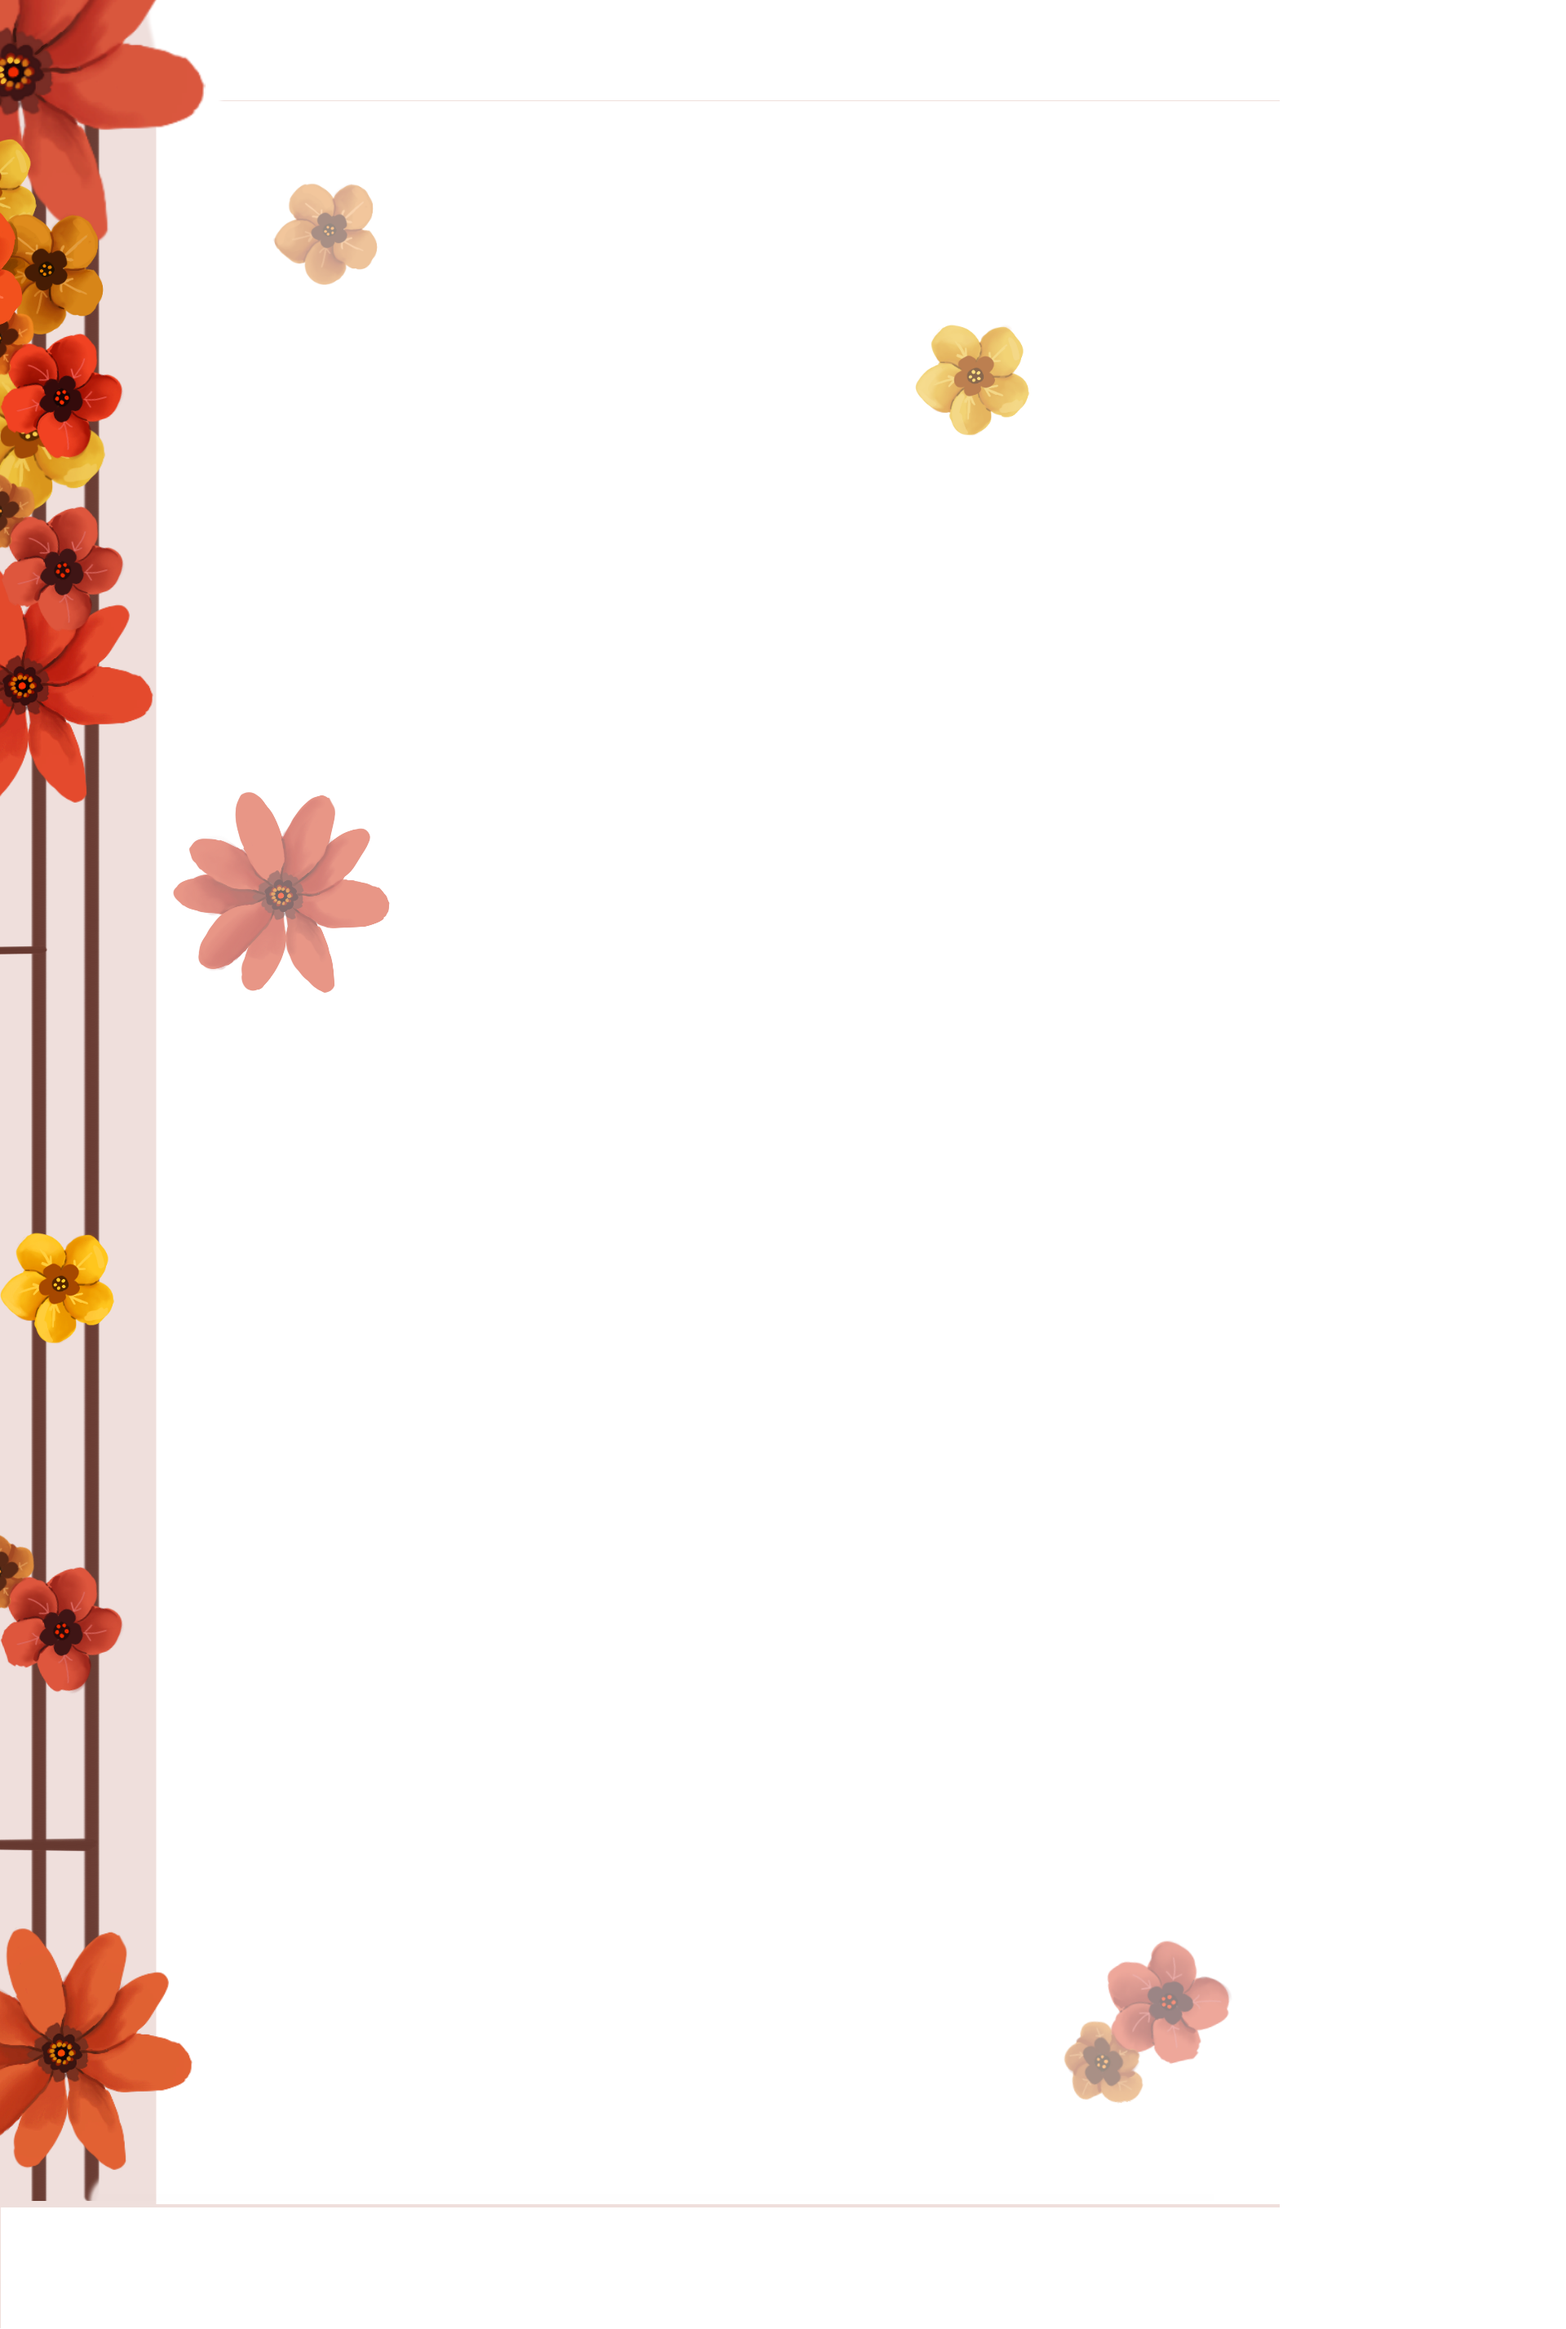
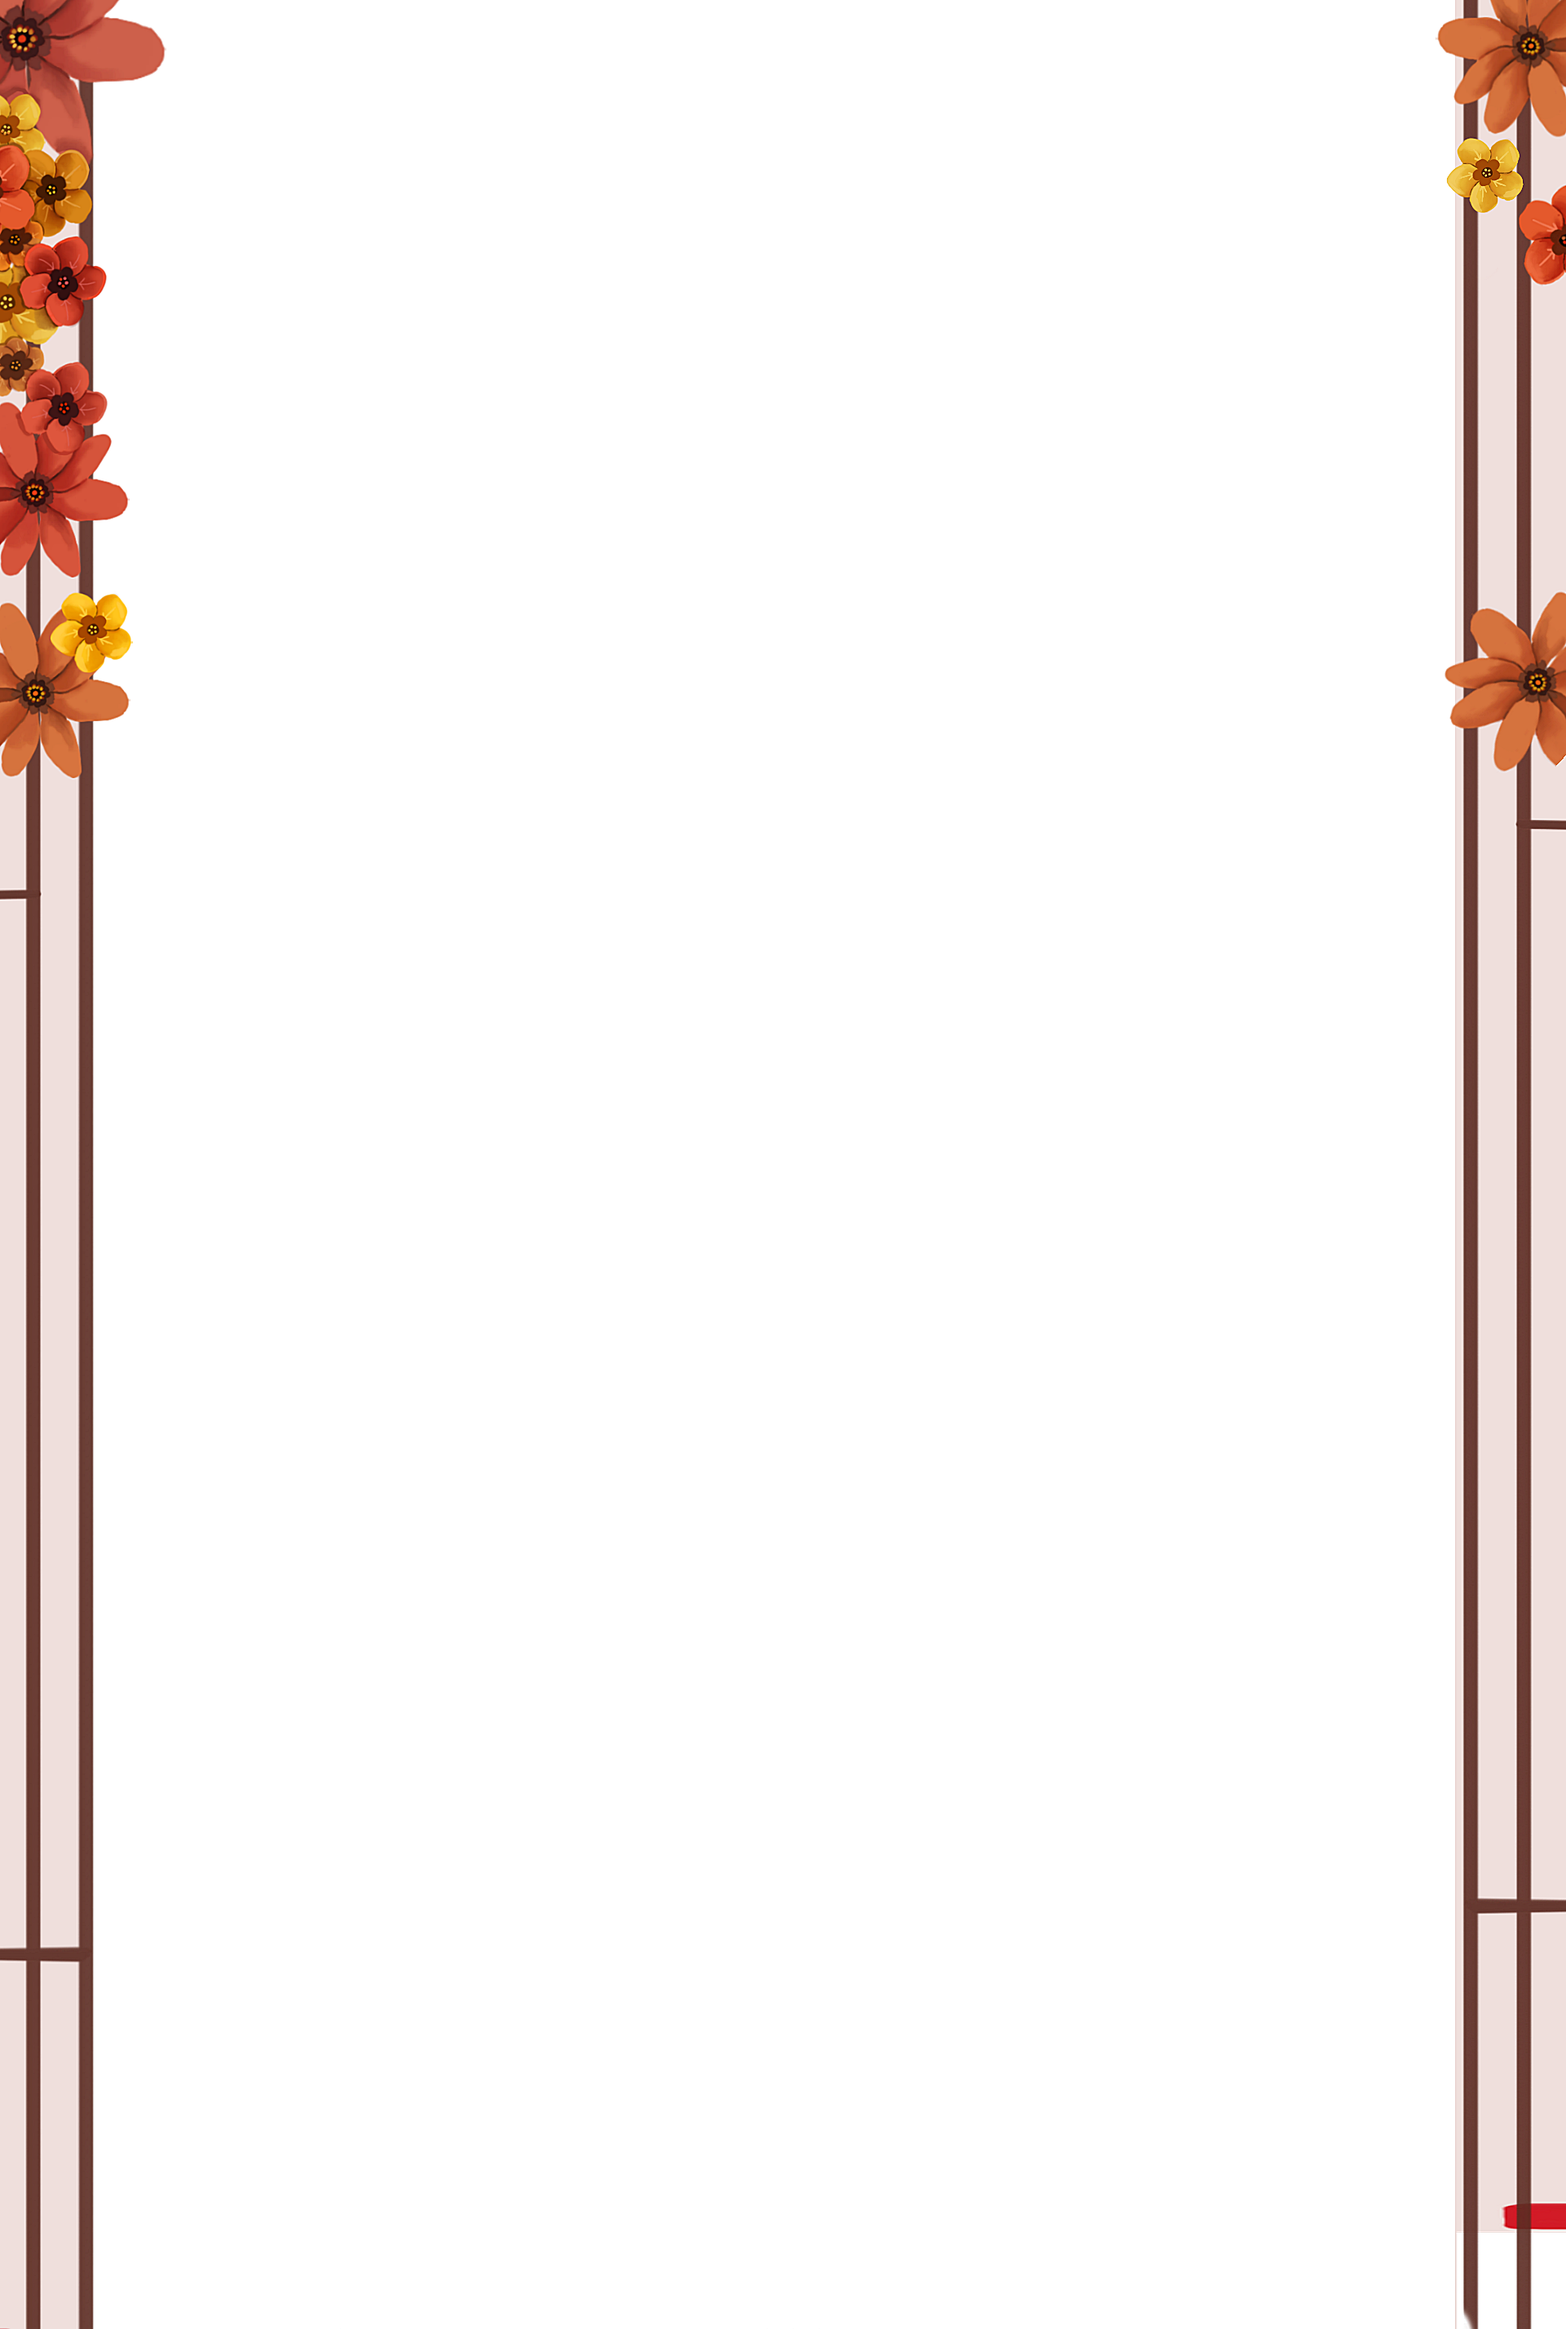
Background Changed

diff --git a/assets/css/style.css b/assets/css/style.css
@@ -14,10 +14,12 @@
 }
 body{
   font-family: 'Roboto', sans-serif;
-  background: url(../img/BGPNG.png);
+  background: url(../img/BGPNG1.png);
   background-repeat: no-repeat;
     width: 100%;
     height: 100%;
+    background-size: cover;
+    background-attachment: fixed;
 }
 .title{
   text-align: center;
